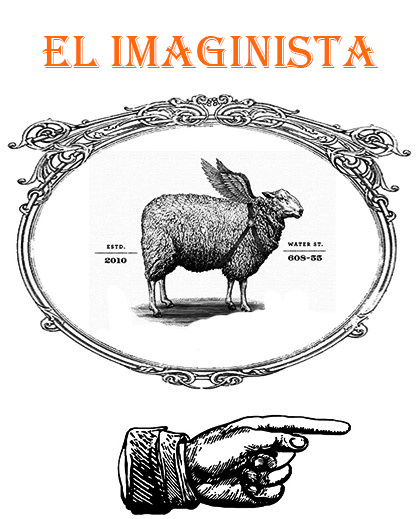
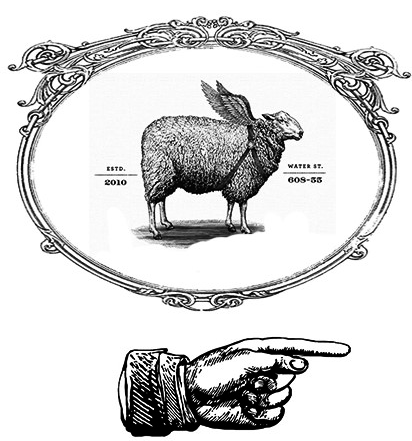
The edges have been marked and all the images have been placed. The division of the body containers is in process

diff --git a/main.css b/main.css
@@ -2,12 +2,20 @@
     padding: 0;
     margin: 0;
     box-sizing: border-box;
+    border: solid rgb(255, 66, 66) 1px;
+    
 }
 
+body {
+    width: 98vw;
+    height: 98vh;
+}
 
 header {
     display: grid;
     grid-template-columns: 1fr 2fr 6fr 2fr 1fr;
+    /* width: 94vw; */
+    margin: 1em;
 }
 
 .publishing_house-imagotype img{
@@ -15,6 +23,16 @@ header {
     height: 5em;
     display: grid;
     margin: auto;
+    display: inline-block;
+}
+
+.publishing_house-imagotype p {
+    writing-mode: vertical-lr;
+    transform: rotate(180deg);
+    font-size: .6em;
+    display: inline-block;
+    font-weight: bold;
+    margin-left: 1.5em;
 }
 
 .publishing_house-slogan {
@@ -28,129 +46,106 @@ header {
 .main_head {
     text-align: center;
     font-family: 'Limelight';
+    letter-spacing: .4em;
+    border-top: solid black;
+    border-bottom: solid black;
+    margin: auto;
 }
 
 .main_sponsor-content {
-    background-color: blue;
-}
-
-.main_sponsor-imagotype {
-    background-color: green;
-}
-
-.main_sponsor-imagotype img{
-    width: 70px;
-    height: 70px;
-    display: grid;
-    margin: auto;
-}
-
-/* .Logo figure { */
-    /* background-color: green;
-    display: inline-block;
-    width: 30%;
-    height: 98%;
-}
-
-.Logo span {
-    background-color: bisque;
-    display: inline-block;
-    width: 60%;
-    height: 98%;
-    margin-left: 10px;
-}
-
-.Headline {
-    background-color: chartreuse;
-    height: 12.5vh;
-    margin: 5px;
-}
-
-.Titular {
-    display: block;
-    margin: auto;
-    width: 80%;
-}
-
-.Titular h1 {
-    font-size: 1em;
-    margin: 1.5em auto auto auto;
-    display: flex;
-    justify-content: center;
-    border-top: solid black;
-}
-
-.Date {
-    display: block;
-    margin-top: 3em;
-    display: flex;
-    margin: auto;
-    justify-content: center;
-    border-bottom: solid black;
-}
-
-.Banner {
-    background-color: crimson;
-    height: 12.5vh;
-    margin: 5px;
-    display: grid;
-    grid-template-columns: 1fr 1fr;
-    grid-template-rows: 1fr 1fr;
-}
-
-.Banner h3{
-    width: 80%;
-    height: 50%;
-    margin: 0;
-    display: grid;
-    grid-column: 1;
-    margin: auto;
     text-align: center;
-    font-size: .8em;
+    font-size: .7em;
+    margin: auto;
 }
 
-.add_image {
-    width: 3.5em;
-    height: 3.5em;
-    position: relative;
-    left: 20%;
-    top:20%;
-    display: grid;
-    grid-column: 2;
-    grid-row: 1 / span 2;
-} */
+.main_sponsor-imagotype .telephone {
+    width: 60px;
+    height: 50px;
+    margin-top: 1em;
+}
 
 .Navigation {
-    background-color: darkgoldenrod;
-    height: 6vh;
-    margin: 5px;
+    width: 96vw;
+    height: 3vh;
+    margin: 1em;
+}
+
+.Navigation ul {
+    display: flex;
+    justify-content: space-between;
+}
+
+.Navigation ul li {
+    text-decoration: none;
+    display: inline-block;
 }
 
 .Cinema_Marquee {
-    background-color: darkorchid;
-    height: 6vh;
-    margin: 5px;
+    display: inline-block;
+    /* background-color: darkorchid; */
+    width: 94vw;
+    height: 7vh;
+    /* position: relative; */
+    display: flex;
+    /* align-items: center; */
+    /* justify-content: space-between; */
+    margin-left: 2.5vw;
+    margin-right: 1vw;
+}
+
+.movies {
+    width: 94vw;
+    display: flex;
+    justify-content: space-between;
+    align-items: center;
+}
+
+.Cinema_Marquee a:link, a:visited, a:active{
+    text-decoration: none;
+    font-size: .8em;
+    justify-content: space-around;
 }
 
 main {
-    background-color: blue;
-    height: 70vh;
+    height: 600px;
     margin: 5px;
     display: grid;
-    grid-template-columns: 1fr 1fr 1fr;
+    grid-template-columns: 2fr 5fr 2fr;
+    position: absolute;
 }
 
 .Sensationalist_Notes {
-    background-color: deeppink;
     margin: 5px;
+    position: relative;
+    display: grid;
+    grid-template-rows: 2fr 1fr 1fr;
+}
+
+.section_one {
+    display: grid;
+    grid-row-start: 1;
+}
+
+.section_one {
+    display: grid;
+    grid-template-columns: 1fr 1fr;
+}
+
+/* .section_one p {
+    width: 30px;
+} */
+
+.greatkelly {
+    width: 180px;
+    height: auto;
 }
 
 .Editorial {
-    background-color: deepskyblue;
     margin: 5px;
+    position: relative;
 }
 
 .Glamour_News {
-    background-color: gold;
     margin: 5px;
+    position: relative;
 }

diff --git a/index.html b/index.html
@@ -10,6 +10,7 @@
 <body>
     <header>
         <figure class="publishing_house-imagotype">
+            <p>EL IMAGINISTA</p>
             <img src="/imaginista.png" alt="">
         </figure>
         <div class="publishing_house-slogan">
@@ -20,23 +21,73 @@
         <div class="main_head">
             <span>
                 <h1>HOLLYWOOD FACTORY</h1>
-                <h3>March 24, 1976</h3>
+                <h5>March 24, 1976</h5>
             </span>
         </div>
         <div class="main_sponsor-content">
             <h3>Telephone in here</h3>
-            <h3>25$ | Los Angeles Agency</h3>
+            <h3> $18.90 | Los Angeles Agency</h3>
         </div>
-        <figure class="main_sponsor-imagotype">
-            <img src="/logostarbucks.png" alt="">
-        </figure>
+        <div class="main_sponsor-imagotype">
+            <img class="telephone" src="/telephone.png" alt="">
+        </div>
     </header>
-    <nav class="Navigation">Navigation</nav>
-    <div class="Cinema_Marquee">Cinema</div>
+    <div class="Navigation">
+        <ul>
+            <li>Planeta de los simios 9.1 |</li>
+            <li>El padrino 10 |</li>
+            <li>Starwars 7.5 |</li>
+            <li>Indiana Jons 9.1 |</li>
+            <li>El mago de Oz 8.5 |</li>
+            <li>Blanca Nieves 9.6 |</li>
+            <li>Casa Blanca 9.5 |</li>
+            <li>Dr. Strangelove 8.6 |</li>
+        </ul>
+    </div>
+    <div class="Cinema_Marquee">
+        <div class="movies">
+        <a href="/">LATEST</a>
+        <a href="/">FEATURED</a>
+        <a href="/">AUTOMOBILES</a>
+        <a href="/">CELEBRETIES</a>
+        <a href="/">HOLLYWOOD DIRECTORY</a>
+        <a href="/">TRENDING MOVIES</a>
+        <a href="/">BOOK TICKETS</a>
+        <a href="/">FANS</a>
+        <a href="/">BOOKS</a>
+        </div>   
+    </div>
     <main class="Notes">    
-        <div class="Sensationalist_Notes">Hola mundo</div>
-        <div class="Editorial">Editorial</div>
-        <div class="Glamour_News">Glamour_News</div>
+        <div class="Sensationalist_Notes">
+            <section class="section_one">
+                <p class="note_greatkelly">
+                    Great Kelly was cast in West High Noon, starring Gary Cooper and directed by Fred Zinnemann. According to what has been said, during the four weeks of filming the 22-year-old had an affair with the actor, who was already 50.
+                </p>
+                <img class="greatkelly" src="/great_kelly.jpg" alt="">
+            </section>
+            <section>
+                <img class="jamesdean" src="/mrdean.jpg" alt="">
+                <p>
+
+                </p>
+            </section>
+            <section>
+                <span>
+
+                </span>
+                <span>
+
+                </span>
+            </section>
+        </div>
+        <div class="Editorial">
+            <img class="franksinatra" src="/frankdrive.jpg" alt="">
+            <img class="mansion" src="/hollywood_hills.jpg" alt="">
+        </div>
+        <div class="Glamour_News">
+            <img class="casablanca" src="/casablanca.jpg" alt="">
+            <img class="audreyhepburn" src="/audreyhepburn.jpg" alt="">
+        </div>
     </main>
 </body>
 </html> 
